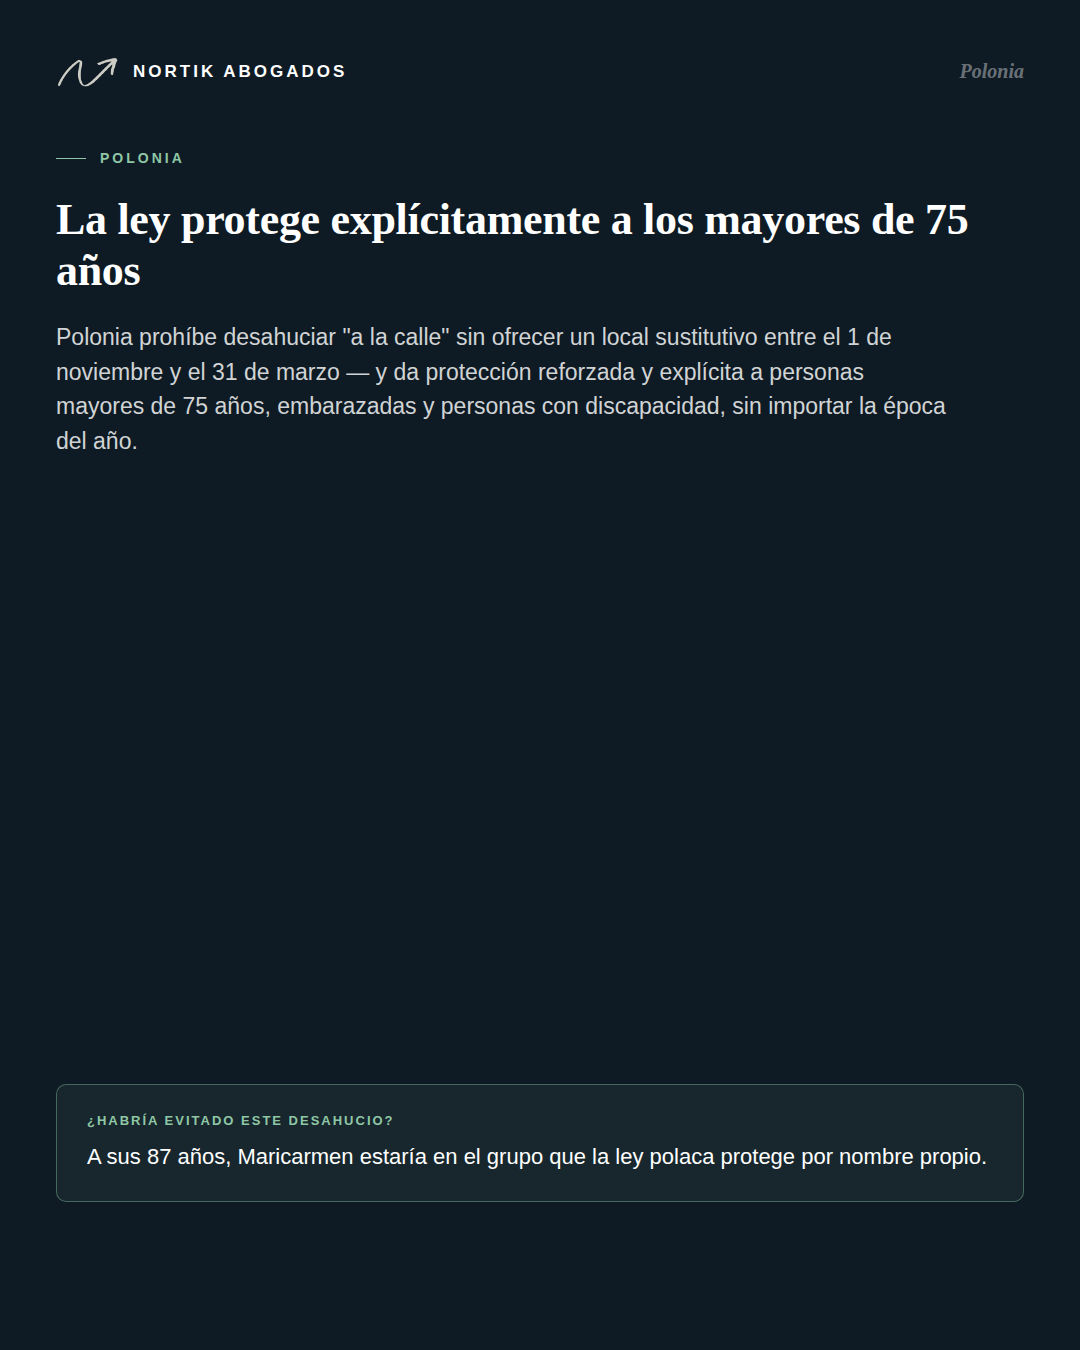
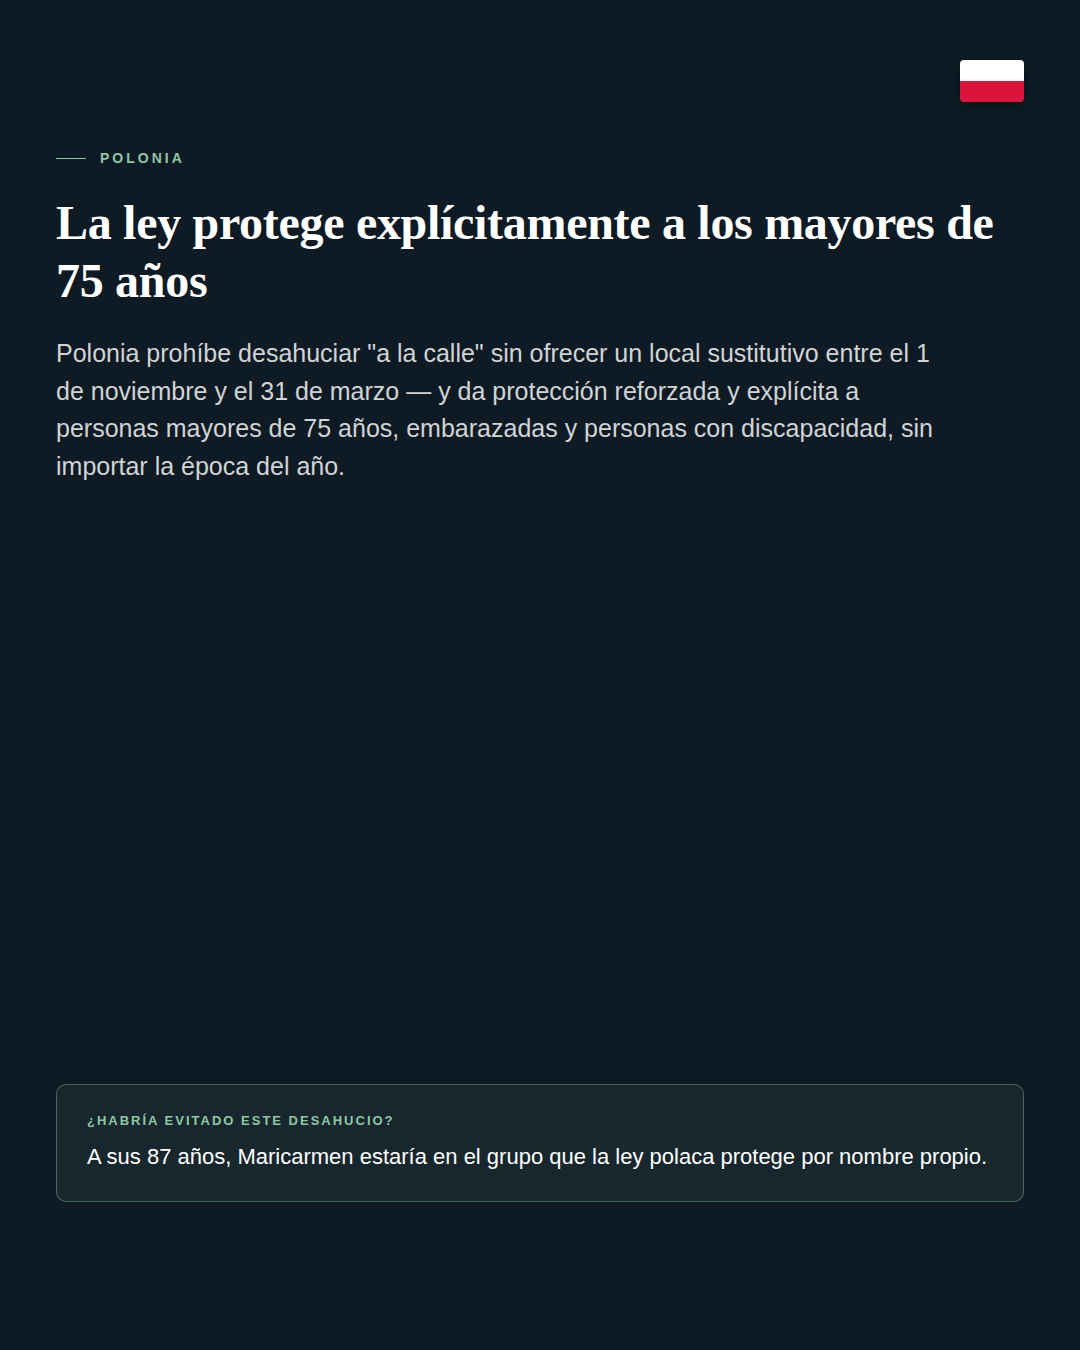
Portada con foto real de la manifestación, banderas por país y letras más grandes
Slide 1: usa la foto de la manifestación en Madrid que aportó el cliente
(propia, de un acto público) en dúotono azul marino, con el titular aprobado
por el cliente ("Así habría protegido cada país a Mari Carmen — menos el
suyo") y las 7 banderas en fila. No se usa la fotografía de Mari Carmen en
silla de ruedas que también se ofreció: sigue siendo la imagen de una
persona privada, vulnerable e identificable en un momento íntimo de
cuidado, a diferencia de la foto de la protesta (escena pública, sin foco
en un individuo concreto).

Añade una bandera dibujada en CSS (sin assets externos) en cada slide de
país + en las filas del resumen, para diferenciarlos de un vistazo. Quita
el logo/marca "NORTIK ABOGADOS" de los slides 2-9, dejándolo solo en el
primero y el último. Aumenta el tamaño de letra en titulares, cuerpo de
texto y tarjetas en todo el carrusel para mejorar la legibilidad en
Instagram.

Changed region(s): [[0.0306, 0.1556, 0.9167, 0.3733], [0.0611, 0.0311, 0.3056, 0.0622], [0.8861, 0.0311, 0.9472, 0.0933]]

diff --git a/carousel-paises-maricarmen/render.js b/carousel-paises-maricarmen/render.js
@@ -1,34 +1,83 @@
 const path = require('path');
 const T = require('../carousel-maricarmen-nortik/theme.js');
-const { INK, INK2, NAVY, CREAM, GOLD, BAD, OK, SERIF, PHOTO, brand, pageTag, eyebrow, card, logoMark, photoDuotone, renderSlides } = T;
+const { INK, INK2, NAVY, CREAM, GOLD, BAD, OK, SERIF, brand, pageTag, eyebrow, card, logoMark, renderSlides } = T;
+
+const PROTEST_PHOTO = path.join(__dirname, 'assets/protesta.jpg');
 
 // ---------------------------------------------------------------
-// SLIDE 1 — HOOK
+// Flag chips — drawn in CSS (no external assets / emoji fonts needed)
+// ---------------------------------------------------------------
+function stripe(colors, dir = 'to bottom', ratios = null) {
+  const r = ratios || colors.map(() => 1);
+  const total = r.reduce((a, b) => a + b, 0);
+  let acc = 0;
+  const stops = colors.map((c, i) => {
+    const start = (acc / total) * 100;
+    acc += r[i];
+    const end = (acc / total) * 100;
+    return `${c} ${start}%, ${c} ${end}%`;
+  }).join(', ');
+  return `linear-gradient(${dir}, ${stops})`;
+}
+
+function flagChip(name, w = 60, h = 40) {
+  const base = `width:${w}px; height:${h}px; border-radius:4px; overflow:hidden; position:relative; flex:none; box-shadow:0 3px 10px rgba(0,0,0,0.35);`;
+  const nordic = (field, c1, c2) => `<div style="${base}background:${field};">
+    <div style="position:absolute; left:${Math.round(w * 0.32)}px; top:0; bottom:0; width:${Math.round(w * 0.16)}px; background:${c1};"></div>
+    <div style="position:absolute; top:${Math.round(h * 0.32)}px; left:0; right:0; height:${Math.round(h * 0.24)}px; background:${c1};"></div>
+    ${c2 ? `<div style="position:absolute; left:${Math.round(w * 0.365)}px; top:0; bottom:0; width:${Math.round(w * 0.07)}px; background:${c2};"></div>
+    <div style="position:absolute; top:${Math.round(h * 0.38)}px; left:0; right:0; height:${Math.round(h * 0.11)}px; background:${c2};"></div>` : ''}
+  </div>`;
+  const flags = {
+    'España': `<div style="${base}background:${stripe(['#AA151B', '#F1BF00', '#AA151B'], 'to bottom', [1, 2, 1])};"></div>`,
+    'Francia': `<div style="${base}background:${stripe(['#002654', '#fff', '#ED2939'], 'to right')};"></div>`,
+    'Alemania': `<div style="${base}background:${stripe(['#000', '#DD0000', '#FFCE00'], 'to bottom')};"></div>`,
+    'Polonia': `<div style="${base}background:${stripe(['#fff', '#DC143C'], 'to bottom')};"></div>`,
+    'Países Bajos': `<div style="${base}background:${stripe(['#AE1C28', '#fff', '#21468B'], 'to bottom')};"></div>`,
+    'Suecia': nordic('#006AA7', '#FECC00'),
+    'Noruega': nordic('#EF2B2D', '#fff', '#00205B'),
+  };
+  return flags[name] || '';
+}
+
+// ---------------------------------------------------------------
+// SLIDE 1 — HOOK (real protest photo, dramatized in navy duotone)
 // ---------------------------------------------------------------
 function slide1() {
   return `<html><head><meta charset="utf-8"><style>${T.RESET}
+    .stage { background:${INK}; }
+    .photoband { position:absolute; top:0; left:0; width:1080px; height:620px; overflow:hidden; }
+    .photoband img { width:1080px; display:block; filter:grayscale(100%) contrast(1.15) brightness(0.85); }
+    .photoband .tint { position:absolute; inset:0; background:${NAVY}; mix-blend-mode:color; opacity:0.5; }
+    .photoband .fade { position:absolute; left:0; right:0; bottom:0; height:170px; background:linear-gradient(180deg, rgba(14,27,36,0) 0%, ${INK} 100%); }
+    .caption { position:absolute; top:576px; left:56px; z-index:6; color:rgba(255,255,255,0.55); font-weight:700; letter-spacing:1.5px; font-size:14px; text-transform:uppercase; }
     .badge { position:absolute; top:60px; left:56px; z-index:9; display:flex; align-items:center; gap:10px; }
-    .badge .led { width:8px; height:8px; border-radius:50%; background:${GOLD}; }
-    .badge span { color:rgba(255,255,255,0.85); font-weight:700; letter-spacing:2px; font-size:13px; text-transform:uppercase; }
-    .content { position:absolute; left:56px; right:56px; bottom:150px; z-index:9; }
-    .kicker { color:${GOLD}; font-weight:700; letter-spacing:3px; font-size:15px; text-transform:uppercase; margin-bottom:20px; }
-    h1 { font-family:${SERIF}; color:#fff; font-weight:700; font-size:68px; line-height:1.1; letter-spacing:-0.5px; }
+    .badge .led { width:9px; height:9px; border-radius:50%; background:${GOLD}; }
+    .badge span { color:#fff; font-weight:700; letter-spacing:2px; font-size:15px; text-transform:uppercase; text-shadow:0 2px 8px rgba(0,0,0,0.6); }
+    .content { position:absolute; left:56px; right:56px; top:660px; z-index:6; }
+    .kicker { color:${GOLD}; font-weight:700; letter-spacing:3px; font-size:17px; text-transform:uppercase; margin-bottom:22px; }
+    h1 { font-family:${SERIF}; color:#fff; font-weight:700; font-size:56px; line-height:1.16; letter-spacing:-0.5px; }
     h1 .hl { color:${GOLD}; font-style:italic; }
-    .sub { color:rgba(255,255,255,0.85); font-size:25px; font-weight:500; line-height:1.5; margin-top:26px; max-width:880px; }
+    .flagrow { display:flex; gap:12px; margin-top:34px; }
     .cta { position:absolute; bottom:52px; left:56px; right:56px; z-index:9; display:flex; align-items:center; justify-content:space-between; }
-    .pill { background:${GOLD}; color:${INK}; font-weight:700; letter-spacing:2px; font-size:14px; text-transform:uppercase; padding:17px 28px; border-radius:3px; }
+    .pill { background:${GOLD}; color:${INK}; font-weight:700; letter-spacing:2px; font-size:16px; text-transform:uppercase; padding:19px 30px; border-radius:3px; }
     .who { display:flex; align-items:center; gap:10px; }
-    .who span { color:rgba(255,255,255,0.55); font-weight:700; font-size:13px; letter-spacing:1.5px; }
+    .who span { color:rgba(255,255,255,0.55); font-weight:700; font-size:15px; letter-spacing:1.5px; }
   </style></head><body><div class="stage">
-    ${photoDuotone(PHOTO)}
+    <div class="photoband">
+      <img src="file://${PROTEST_PHOTO}">
+      <div class="tint"></div>
+      <div class="fade"></div>
+    </div>
     <div class="badge"><div class="led"></div><span>Análisis comparado · 6 países</span></div>
-    ${pageTag('01 / 10')}
+    ${pageTag('01 / 10', 'rgba(255,255,255,0.65)')}
+    <div class="caption">Manifestación en Madrid tras su desahucio</div>
     <div class="content">
       <div class="kicker">Mismo caso, seis países distintos</div>
-      <h1>En Polonia, la ley la habría <span class="hl">protegido por su edad</span>.</h1>
-      <div class="sub">El desahucio de Mari Carmen sería casi impensable en gran parte de Europa. Comparamos Alemania, Francia, Polonia, Holanda, Suecia y Noruega.</div>
+      <h1>Así habría protegido cada país a Mari Carmen — <span class="hl">menos el suyo</span>.</h1>
+      <div class="flagrow">${['España', 'Francia', 'Alemania', 'Polonia', 'Países Bajos', 'Suecia', 'Noruega'].map(c => flagChip(c, 42, 28)).join('')}</div>
     </div>
-    <div class="cta"><div class="pill">Desliza y compara →</div><div class="who">${logoMark('light', 24)}<span>NORTIK ABOGADOS</span></div></div>
+    <div class="cta"><div class="pill">Desliza y compara →</div><div class="who">${logoMark('light', 26)}<span>NORTIK ABOGADOS</span></div></div>
   </div></body></html>`;
 }
 
@@ -38,13 +87,14 @@ function slide1() {
 function slide2() {
   return `<html><head><meta charset="utf-8"><style>${T.RESET}
     .stage { background:${INK}; }
+    .flagbox { position:absolute; top:60px; right:56px; z-index:9; }
     .head { position:absolute; top:150px; left:56px; right:56px; z-index:5; }
-    h1 { font-family:${SERIF}; color:#fff; font-weight:700; font-size:48px; line-height:1.16; letter-spacing:-0.3px; margin-top:16px; }
-    .body { color:rgba(255,255,255,0.82); font-size:25px; font-weight:500; line-height:1.5; margin-top:26px; max-width:900px; }
+    h1 { font-family:${SERIF}; color:#fff; font-weight:700; font-size:52px; line-height:1.18; letter-spacing:-0.3px; margin-top:18px; }
+    .body { color:rgba(255,255,255,0.82); font-size:27px; font-weight:500; line-height:1.5; margin-top:28px; max-width:900px; }
     .cardwrap { position:absolute; left:56px; right:56px; bottom:140px; z-index:5; }
   </style></head><body><div class="stage">
-    ${brand()}
     ${pageTag('02 / 10')}
+    <div class="flagbox">${flagChip('España', 64, 42)}</div>
     <div class="head">
       ${eyebrow('España, 2026')}
       <h1>87 años, sin alternativa de vivienda, y el desalojo siguió adelante</h1>
@@ -57,21 +107,19 @@ function slide2() {
 // ---------------------------------------------------------------
 // Reusable "country" slide
 // ---------------------------------------------------------------
-function countrySlide({ num, flag, country, title, body, verdict, bg = INK2, dark = true }) {
+function countrySlide({ flag, title, body, verdict, bg = INK2, dark = true }) {
   return `<html><head><meta charset="utf-8"><style>${T.RESET}
     .stage { background:${bg}; }
-    .tag { position:absolute; top:60px; right:56px; font-family:${SERIF}; font-style:italic; font-weight:700; font-size:20px;
-      color:${dark ? 'rgba(255,255,255,0.4)' : 'rgba(27,46,59,0.45)'}; z-index:9; }
+    .flagbox { position:absolute; top:60px; right:56px; z-index:9; }
     .head { position:absolute; top:150px; left:56px; right:56px; z-index:5; }
-    h1 { font-family:${SERIF}; color:${dark ? '#fff' : NAVY}; font-weight:700; font-size:44px; line-height:1.16; letter-spacing:-0.3px; }
-    .body { color:${dark ? 'rgba(255,255,255,0.82)' : 'rgba(27,46,59,0.75)'}; font-size:23px; font-weight:500; line-height:1.5; margin-top:24px; max-width:900px; }
+    h1 { font-family:${SERIF}; color:${dark ? '#fff' : NAVY}; font-weight:700; font-size:48px; line-height:1.2; letter-spacing:-0.3px; }
+    .body { color:${dark ? 'rgba(255,255,255,0.82)' : 'rgba(27,46,59,0.75)'}; font-size:25px; font-weight:500; line-height:1.5; margin-top:26px; max-width:900px; }
     .body b { color:${dark ? '#fff' : NAVY}; font-weight:700; }
     .cardwrap { position:absolute; left:56px; right:56px; bottom:130px; z-index:5; }
   </style></head><body><div class="stage">
-    ${brand(dark ? 'light' : 'dark')}
-    <div class="tag">${country}</div>
+    <div class="flagbox">${flagChip(flag, 64, 42)}</div>
     <div class="head">
-      ${eyebrow(flag, dark ? GOLD : NAVY)}
+      ${eyebrow(flag.toUpperCase(), dark ? GOLD : NAVY)}
       <h1>${title}</h1>
       <div class="body">${body}</div>
     </div>
@@ -82,7 +130,7 @@ function countrySlide({ num, flag, country, title, body, verdict, bg = INK2, dar
 // SLIDE 3 — FRANCIA
 function slide3() {
   return countrySlide({
-    num: 3, flag: 'FRANCIA', country: 'Francia',
+    flag: 'Francia',
     title: 'Prohibido desahuciar a mayores de 65 sin techo garantizado',
     body: 'La ley francesa impide expulsar a un inquilino de más de 65 años con recursos limitados si la administración no le garantiza antes un realojo adecuado y cercano. Además, ningún desahucio puede ejecutarse entre el 1 de noviembre y el 31 de marzo (la <b>trêve hivernale</b>).',
     verdict: 'Muy probablemente sí — Maricarmen (87 años, pensión limitada) encajaría directamente en esa protección.',
@@ -93,7 +141,7 @@ function slide3() {
 // SLIDE 4 — ALEMANIA
 function slide4() {
   return countrySlide({
-    num: 4, flag: 'ALEMANIA', country: 'Alemania',
+    flag: 'Alemania',
     title: 'Un juez puede paralizar el desahucio "indefinidamente"',
     body: 'El Código Civil alemán incluye la cláusula de <b>extrema dureza (Härtefall)</b>: si el desalojo supone un perjuicio desproporcionado para una persona mayor o con discapacidad grave, el juez puede suspenderlo sin fecha. Y si aun así se ejecuta, la ley da hasta un año para buscar otra vivienda.',
     verdict: 'Probablemente — o como mínimo, lo habría alargado mucho más allá de un año.',
@@ -104,7 +152,7 @@ function slide4() {
 // SLIDE 5 — POLONIA
 function slide5() {
   return countrySlide({
-    num: 5, flag: 'POLONIA', country: 'Polonia',
+    flag: 'Polonia',
     title: 'La ley protege explícitamente a los mayores de 75 años',
     body: 'Polonia prohíbe desahuciar "a la calle" sin ofrecer un local sustitutivo entre el 1 de noviembre y el 31 de marzo — y da protección reforzada y explícita a personas mayores de 75 años, embarazadas y personas con discapacidad, sin importar la época del año.',
     verdict: 'A sus 87 años, Maricarmen estaría en el grupo que la ley polaca protege por nombre propio.',
@@ -115,7 +163,7 @@ function slide5() {
 // SLIDE 6 — HOLANDA
 function slide6() {
   return countrySlide({
-    num: 6, flag: 'HOLANDA', country: 'Países Bajos',
+    flag: 'Países Bajos',
     title: 'Con un 30% de vivienda social, el mercado no depende de un solo casero',
     body: 'La "huurbescherming" holandesa impide subir la renta o desahuciar sin una causa muy concreta. Y con más del 30% del parque de vivienda siendo social (frente al 1,6% de España), el alquiler de precio limitado es la norma, no la excepción.',
     verdict: 'Muy difícil que una renta pasara de 500€ a 2.650€ de la noche a la mañana — y menos aún que acabara en desalojo.',
@@ -126,7 +174,7 @@ function slide6() {
 // SLIDE 7 — SUECIA
 function slide7() {
   return countrySlide({
-    num: 7, flag: 'SUECIA', country: 'Suecia',
+    flag: 'Suecia',
     title: 'Donde el alquiler no depende de un solo propietario privado',
     body: 'Suecia gestiona buena parte de su vivienda de alquiler a través de compañías públicas municipales (<b>allmännyttan</b>), con listas de espera en vez de mercado libre. Un cambio de propietario, sencillamente, no puede dejarte sin casa de la noche a la mañana.',
     verdict: 'No es solo una ley distinta — es un mercado del alquiler organizado de otra manera.',
@@ -137,10 +185,10 @@ function slide7() {
 // SLIDE 8 — NORUEGA
 function slide8() {
   return countrySlide({
-    num: 8, flag: 'NORUEGA', country: 'Noruega',
+    flag: 'Noruega',
     title: 'Sin una regla dramática — pero con un sistema que reparte mejor',
     body: 'La ley noruega (Husleieloven) protege de forma general frente a desalojos injustificados y exige causa y preaviso claros. No tiene una cláusula tan específica como la francesa o la polaca — pero un mercado del alquiler más regulado y menos concentrado hace que casos como este sean, en la práctica, mucho más raros.',
-    verdict: 'Es el recordatorio de que no todo protección se ve en una ley concreta: a veces está en cómo funciona el mercado entero.',
+    verdict: 'Es el recordatorio de que la protección no siempre está en una ley concreta: a veces está en cómo funciona el mercado entero.',
     bg: CREAM, dark: false,
   });
 }
@@ -154,29 +202,30 @@ function slide9() {
     ['Francia', 'Prohibido sin realojo garantizado (65+)', 'ok'],
     ['Alemania', 'Un juez puede suspenderlo sin fecha', 'ok'],
     ['Polonia', 'Protección explícita a partir de 75 años', 'ok'],
-    ['Holanda', '30% de vivienda social amortigua el mercado', 'ok'],
-    ['Suecia / Noruega', 'Modelo estructural, no solo una ley puntual', 'mid'],
+    ['Países Bajos', '30% de vivienda social amortigua el mercado', 'ok'],
+    ['Suecia', 'Modelo estructural, no solo una ley puntual', 'mid'],
+    ['Noruega', 'Modelo estructural, no solo una ley puntual', 'mid'],
   ];
-  const icon = (t) => t === 'ok'
-    ? `<div style="width:26px;height:26px;border:1.5px solid ${OK};border-radius:50%;display:flex;align-items:center;justify-content:center;font-weight:700;color:${OK};font-size:14px;">✓</div>`
+  const dot = (t) => t === 'ok'
+    ? `<div style="width:28px;height:28px;border:1.5px solid ${OK};border-radius:50%;display:flex;align-items:center;justify-content:center;font-weight:700;color:${OK};font-size:15px; flex:none;">✓</div>`
     : t === 'bad'
-    ? `<div style="width:26px;height:26px;border:1.5px solid ${BAD};border-radius:50%;display:flex;align-items:center;justify-content:center;font-weight:700;color:${BAD};font-size:14px;">✕</div>`
-    : `<div style="width:26px;height:26px;border:1.5px solid ${GOLD};border-radius:50%;display:flex;align-items:center;justify-content:center;font-weight:700;color:${GOLD};font-size:13px;">~</div>`;
+    ? `<div style="width:28px;height:28px;border:1.5px solid ${BAD};border-radius:50%;display:flex;align-items:center;justify-content:center;font-weight:700;color:${BAD};font-size:15px; flex:none;">✕</div>`
+    : `<div style="width:28px;height:28px;border:1.5px solid ${GOLD};border-radius:50%;display:flex;align-items:center;justify-content:center;font-weight:700;color:${GOLD};font-size:14px; flex:none;">~</div>`;
   const rowsHtml = rows.map(([country, desc, t]) => `
-    <div style="display:flex; align-items:center; gap:22px; border-bottom:1px solid rgba(255,255,255,0.12); padding:20px 4px;">
-      ${icon(t)}
+    <div style="display:flex; align-items:center; gap:18px; border-bottom:1px solid rgba(255,255,255,0.12); padding:16px 4px;">
+      ${flagChip(country, 44, 30)}
+      ${dot(t)}
       <div style="flex:1;">
-        <div style="color:#fff; font-family:${SERIF}; font-weight:700; font-size:22px;">${country}</div>
-        <div style="color:rgba(255,255,255,0.65); font-weight:500; font-size:18px; margin-top:3px;">${desc}</div>
+        <div style="color:#fff; font-family:${SERIF}; font-weight:700; font-size:24px;">${country}</div>
+        <div style="color:rgba(255,255,255,0.65); font-weight:500; font-size:19px; margin-top:2px;">${desc}</div>
       </div>
     </div>`).join('');
   return `<html><head><meta charset="utf-8"><style>${T.RESET}
     .stage { background:${INK}; }
-    .head { position:absolute; top:140px; left:56px; right:56px; z-index:5; }
-    h1 { font-family:${SERIF}; color:#fff; font-weight:700; font-size:42px; line-height:1.16; letter-spacing:-0.3px; margin-top:16px; }
+    .head { position:absolute; top:130px; left:56px; right:56px; z-index:5; }
+    h1 { font-family:${SERIF}; color:#fff; font-weight:700; font-size:44px; line-height:1.2; letter-spacing:-0.3px; margin-top:16px; }
     .rows { position:absolute; left:56px; right:56px; top:400px; z-index:5; }
   </style></head><body><div class="stage">
-    ${brand()}
     ${pageTag('09 / 10')}
     <div class="head">${eyebrow('De un vistazo')}<h1>Protección frente al desahucio de mayores vulnerables</h1></div>
     <div class="rows">${rowsHtml}</div>
@@ -191,18 +240,18 @@ function slide10() {
     .stage { background:${INK}; }
     .center { position:absolute; left:70px; right:70px; top:0; bottom:0; display:flex; flex-direction:column;
       align-items:center; justify-content:center; text-align:center; z-index:5; }
-    h1 { font-family:${SERIF}; color:#fff; font-weight:700; font-style:italic; font-size:46px; line-height:1.22; letter-spacing:-0.3px; }
+    h1 { font-family:${SERIF}; color:#fff; font-weight:700; font-style:italic; font-size:52px; line-height:1.24; letter-spacing:-0.3px; }
     h1 .hl { color:${GOLD}; }
-    .sub { color:rgba(255,255,255,0.8); font-size:24px; font-weight:500; margin-top:24px; line-height:1.45; max-width:820px; }
-    .credit { margin-top:46px; display:flex; align-items:center; gap:12px; }
-    .credit span { color:rgba(255,255,255,0.55); font-weight:700; font-size:14px; letter-spacing:1.5px; }
+    .sub { color:rgba(255,255,255,0.8); font-size:26px; font-weight:500; margin-top:26px; line-height:1.48; max-width:820px; }
+    .credit { margin-top:48px; display:flex; align-items:center; gap:12px; }
+    .credit span { color:rgba(255,255,255,0.55); font-weight:700; font-size:16px; letter-spacing:1.5px; }
     .foot { position:absolute; left:70px; right:70px; bottom:56px; z-index:5; text-align:center; }
-    .foot p { color:rgba(255,255,255,0.4); font-size:15px; line-height:1.55; }
+    .foot p { color:rgba(255,255,255,0.4); font-size:16px; line-height:1.55; }
   </style></head><body><div class="stage">
     <div class="center">
       <h1>No es solo una pregunta legal.<br>Es <span class="hl">qué modelo de vivienda</span> elegimos.</h1>
       <div class="sub">Cada país decide, con sus leyes, cuánto pesa el derecho a un techo frente al derecho de propiedad. España, hoy, lo resuelve distinto a sus vecinos.</div>
-      <div class="credit">${logoMark('light', 22)}<span>ANÁLISIS: NORTIK ABOGADOS</span></div>
+      <div class="credit">${logoMark('light', 24)}<span>ANÁLISIS: NORTIK ABOGADOS</span></div>
     </div>
     <div class="foot"><p>Comparativa basada en información publicada por medios de comunicación y fuentes jurídicas citadas. Contenido informativo y divulgativo, no constituye asesoría legal.</p></div>
   </div></body></html>`;
